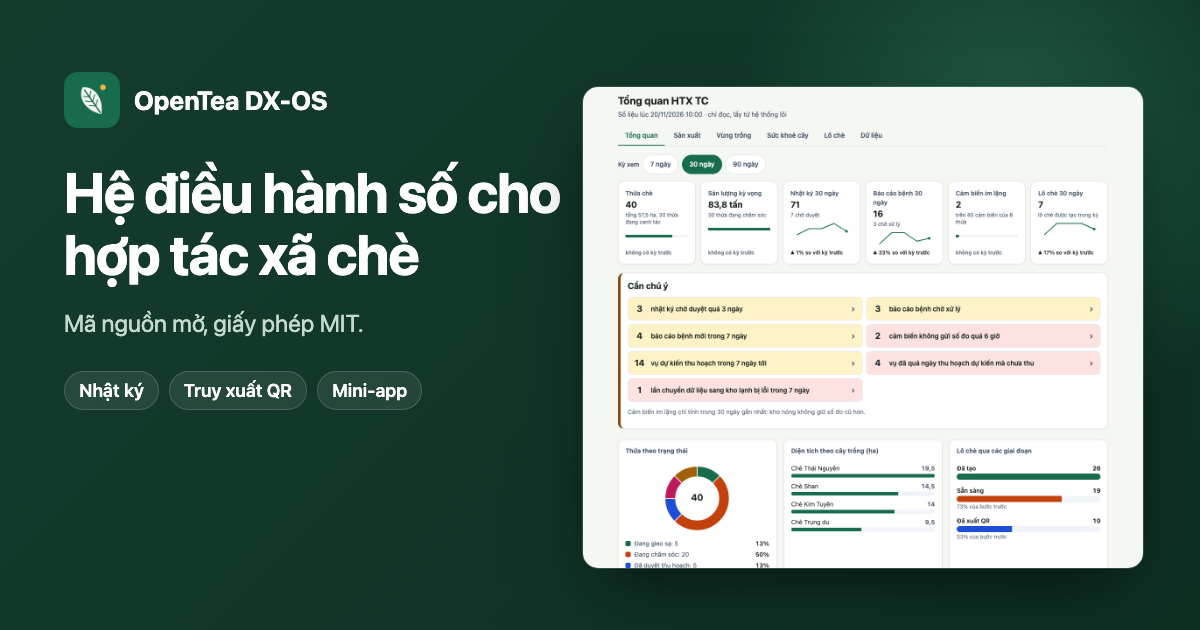
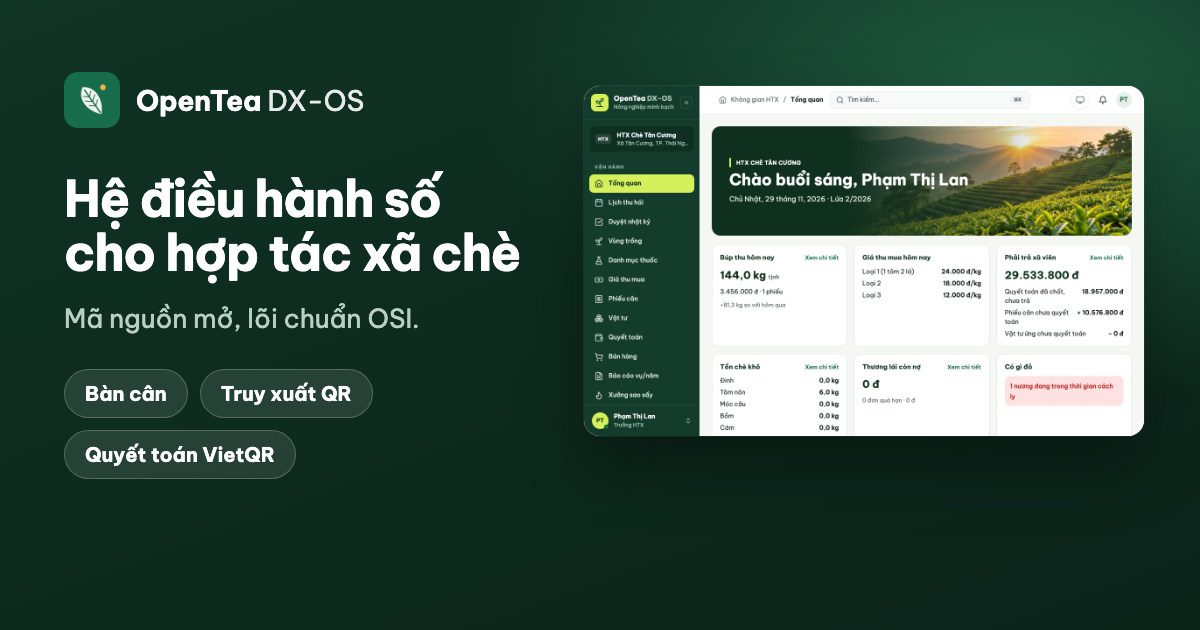
docs(site): social card from the director board; custom-books showcase shows the book designer

diff --git a/site/index.html b/site/index.html
@@ -174,7 +174,7 @@
     <div class="showcase">
       <input class="sc-input" type="radio" name="showcase" id="sc1" checked><input class="sc-input" type="radio" name="showcase" id="sc2"><input class="sc-input" type="radio" name="showcase" id="sc3"><input class="sc-input" type="radio" name="showcase" id="sc4"><input class="sc-input" type="radio" name="showcase" id="sc5"><input class="sc-input" type="radio" name="showcase" id="sc6">
       <div class="sc-tabs" role="group" aria-label="Chọn màn hình"><label class="sc-tab" for="sc1">Bảng điều hành</label><label class="sc-tab" for="sc2">Phiếu quyết toán</label><label class="sc-tab" for="sc3">Truy xuất QR</label><label class="sc-tab" for="sc4">Đặt hàng</label><label class="sc-tab" for="sc5">Sổ tự tạo</label><label class="sc-tab" for="sc6">Khuyến mãi</label></div>
-      <div class="sc-panels"><figure class="sc-panel sc-p1"><div class="shot"><a class="zoom" href="media/director-board.png" data-caption="Bảng điều hành của trưởng HTX: giá thu mua, số tiền phải trả, tồn chè khô và cảnh báo nương đang cách ly. Dữ liệu demo."><img src="media/director-board.png" width="1280" height="800" loading="lazy" alt="Bảng điều hành của trưởng HTX: giá thu mua, số tiền phải trả, tồn chè khô và cảnh báo nương đang cách ly. Dữ liệu demo."></a></div><figcaption>Bảng điều hành của trưởng HTX: giá, phải trả, tồn chè khô, cảnh báo đỏ.</figcaption></figure><figure class="sc-panel sc-p2"><div class="shot"><a class="zoom" href="media/settlement-slip.png" data-caption="Phiếu quyết toán của một hộ: phiếu cân, vật tư ứng, thực lĩnh và mã VietQR, số tài khoản được che. Dữ liệu demo."><img src="media/settlement-slip.png" width="1280" height="800" loading="lazy" alt="Phiếu quyết toán của một hộ: phiếu cân, vật tư ứng, thực lĩnh và mã VietQR, số tài khoản được che. Dữ liệu demo."></a></div><figcaption>Phiếu quyết toán của một hộ: thực lĩnh, mã VietQR, số tài khoản được che.</figcaption></figure><figure class="sc-panel sc-p3"><div class="shot"><a class="zoom" href="media/web-lot-trace.png" data-caption="Trang truy xuất công khai của lô TC-CHE-A3-001: vùng trồng, an toàn cách ly, mẻ sao chế biến. Dữ liệu demo."><img src="media/web-lot-trace.png" width="1280" height="800" loading="lazy" alt="Trang truy xuất công khai của lô TC-CHE-A3-001: vùng trồng, an toàn cách ly, mẻ sao chế biến. Dữ liệu demo."></a></div><figcaption>Trang QR công khai của một lô: vùng trồng, an toàn cách ly, mẻ sao chế biến.</figcaption></figure><figure class="sc-panel sc-p4"><div class="shot"><a class="zoom" href="media/shop-public-order.png" data-caption="Trang đặt hàng công khai của Cửa hàng chè: sản phẩm và số lượng còn lại. Dữ liệu demo."><img src="media/shop-public-order.png" width="1280" height="800" loading="lazy" alt="Trang đặt hàng công khai của Cửa hàng chè: sản phẩm và số lượng còn lại. Dữ liệu demo."></a></div><figcaption>Trang đặt hàng công khai, không cần đăng nhập.</figcaption></figure><figure class="sc-panel sc-p5"><div class="shot"><a class="zoom" href="media/books-in-use.png" data-caption="Sổ chấm công hái chè đang dùng: ghi dòng, lọc và tổng hợp. Dữ liệu demo."><img src="media/books-in-use.png" width="1280" height="800" loading="lazy" alt="Sổ chấm công hái chè đang dùng: ghi dòng, lọc và tổng hợp. Dữ liệu demo."></a></div><figcaption>Sổ đang dùng: ghi dòng, lọc và tổng hợp.</figcaption></figure><figure class="sc-panel sc-p6"><div class="shot"><a class="zoom" href="media/shop-promotions.png" data-caption="Khuyến mãi của Cửa hàng chè: giảm theo phần trăm cho từng sản phẩm, có ngày bắt đầu và ngày kết thúc. Dữ liệu demo."><img src="media/shop-promotions.png" width="1280" height="800" loading="lazy" alt="Khuyến mãi của Cửa hàng chè: giảm theo phần trăm cho từng sản phẩm, có ngày bắt đầu và ngày kết thúc. Dữ liệu demo."></a></div><figcaption>Khuyến mãi theo phần trăm, có ngày bắt đầu và kết thúc.</figcaption></figure></div>
+      <div class="sc-panels"><figure class="sc-panel sc-p1"><div class="shot"><a class="zoom" href="media/director-board.png" data-caption="Bảng điều hành của trưởng HTX: giá thu mua, số tiền phải trả, tồn chè khô và cảnh báo nương đang cách ly. Dữ liệu demo."><img src="media/director-board.png" width="1280" height="800" loading="lazy" alt="Bảng điều hành của trưởng HTX: giá thu mua, số tiền phải trả, tồn chè khô và cảnh báo nương đang cách ly. Dữ liệu demo."></a></div><figcaption>Bảng điều hành của trưởng HTX: giá, phải trả, tồn chè khô, cảnh báo đỏ.</figcaption></figure><figure class="sc-panel sc-p2"><div class="shot"><a class="zoom" href="media/settlement-slip.png" data-caption="Phiếu quyết toán của một hộ: phiếu cân, vật tư ứng, thực lĩnh và mã VietQR, số tài khoản được che. Dữ liệu demo."><img src="media/settlement-slip.png" width="1280" height="800" loading="lazy" alt="Phiếu quyết toán của một hộ: phiếu cân, vật tư ứng, thực lĩnh và mã VietQR, số tài khoản được che. Dữ liệu demo."></a></div><figcaption>Phiếu quyết toán của một hộ: thực lĩnh, mã VietQR, số tài khoản được che.</figcaption></figure><figure class="sc-panel sc-p3"><div class="shot"><a class="zoom" href="media/web-lot-trace.png" data-caption="Trang truy xuất công khai của lô TC-CHE-A3-001: vùng trồng, an toàn cách ly, mẻ sao chế biến. Dữ liệu demo."><img src="media/web-lot-trace.png" width="1280" height="800" loading="lazy" alt="Trang truy xuất công khai của lô TC-CHE-A3-001: vùng trồng, an toàn cách ly, mẻ sao chế biến. Dữ liệu demo."></a></div><figcaption>Trang QR công khai của một lô: vùng trồng, an toàn cách ly, mẻ sao chế biến.</figcaption></figure><figure class="sc-panel sc-p4"><div class="shot"><a class="zoom" href="media/shop-public-order.png" data-caption="Trang đặt hàng công khai của Cửa hàng chè: sản phẩm và số lượng còn lại. Dữ liệu demo."><img src="media/shop-public-order.png" width="1280" height="800" loading="lazy" alt="Trang đặt hàng công khai của Cửa hàng chè: sản phẩm và số lượng còn lại. Dữ liệu demo."></a></div><figcaption>Trang đặt hàng công khai, không cần đăng nhập.</figcaption></figure><figure class="sc-panel sc-p5"><div class="shot"><a class="zoom" href="media/books-designer.png" data-caption="Trình thiết kế sổ của một HTX: tên ô, kiểu dữ liệu, lựa chọn và ai được dùng sổ. Dữ liệu demo."><img src="media/books-designer.png" width="1280" height="800" loading="lazy" alt="Trình thiết kế sổ của một HTX: tên ô, kiểu dữ liệu, lựa chọn và ai được dùng sổ. Dữ liệu demo."></a></div><figcaption>Trưởng HTX tự thiết kế sổ, không cần lập trình.</figcaption></figure><figure class="sc-panel sc-p6"><div class="shot"><a class="zoom" href="media/shop-promotions.png" data-caption="Khuyến mãi của Cửa hàng chè: giảm theo phần trăm cho từng sản phẩm, có ngày bắt đầu và ngày kết thúc. Dữ liệu demo."><img src="media/shop-promotions.png" width="1280" height="800" loading="lazy" alt="Khuyến mãi của Cửa hàng chè: giảm theo phần trăm cho từng sản phẩm, có ngày bắt đầu và ngày kết thúc. Dữ liệu demo."></a></div><figcaption>Khuyến mãi theo phần trăm, có ngày bắt đầu và kết thúc.</figcaption></figure></div>
     </div>
   </div>
 </section>

diff --git a/site/en/index.html b/site/en/index.html
@@ -174,7 +174,7 @@
     <div class="showcase">
       <input class="sc-input" type="radio" name="showcase" id="sc1" checked><input class="sc-input" type="radio" name="showcase" id="sc2"><input class="sc-input" type="radio" name="showcase" id="sc3"><input class="sc-input" type="radio" name="showcase" id="sc4"><input class="sc-input" type="radio" name="showcase" id="sc5"><input class="sc-input" type="radio" name="showcase" id="sc6">
       <div class="sc-tabs" role="group" aria-label="Choose a screen"><label class="sc-tab" for="sc1">Board</label><label class="sc-tab" for="sc2">Settlement slip</label><label class="sc-tab" for="sc3">QR trace</label><label class="sc-tab" for="sc4">Public order</label><label class="sc-tab" for="sc5">Custom book</label><label class="sc-tab" for="sc6">Promotions</label></div>
-      <div class="sc-panels"><figure class="sc-panel sc-p1"><div class="shot"><a class="zoom" href="../media/director-board.png" data-caption="The cooperative head's board: leaf prices, amounts payable, dry stock and a red alert for a parcel in withdrawal. Demo data."><img src="../media/director-board.png" width="1280" height="800" loading="lazy" alt="The cooperative head's board: leaf prices, amounts payable, dry stock and a red alert for a parcel in withdrawal. Demo data."></a></div><figcaption>Head's board: prices, payable, dry stock, red alerts.</figcaption></figure><figure class="sc-panel sc-p2"><div class="shot"><a class="zoom" href="../media/settlement-slip.png" data-caption="A household's settlement slip: weighing tickets, advances, net payout and a VietQR code with the account number masked. Demo data."><img src="../media/settlement-slip.png" width="1280" height="800" loading="lazy" alt="A household's settlement slip: weighing tickets, advances, net payout and a VietQR code with the account number masked. Demo data."></a></div><figcaption>Settlement slip: net payout, VietQR code, masked account.</figcaption></figure><figure class="sc-panel sc-p3"><div class="shot"><a class="zoom" href="../media/web-lot-trace.png" data-caption="The public QR page of lot TC-CHE-A3-001: origin, withdrawal safety, processing batch. Demo data."><img src="../media/web-lot-trace.png" width="1280" height="800" loading="lazy" alt="The public QR page of lot TC-CHE-A3-001: origin, withdrawal safety, processing batch. Demo data."></a></div><figcaption>Public QR page of a lot: origin, withdrawal safety, processing batch.</figcaption></figure><figure class="sc-panel sc-p4"><div class="shot"><a class="zoom" href="../media/shop-public-order.png" data-caption="The public order page of the tea shop: products and remaining stock. Demo data."><img src="../media/shop-public-order.png" width="1280" height="800" loading="lazy" alt="The public order page of the tea shop: products and remaining stock. Demo data."></a></div><figcaption>Public order page, no sign-in needed.</figcaption></figure><figure class="sc-panel sc-p5"><div class="shot"><a class="zoom" href="../media/books-in-use.png" data-caption="The tea-picking attendance book in use: entries, filters and totals. Demo data."><img src="../media/books-in-use.png" width="1280" height="800" loading="lazy" alt="The tea-picking attendance book in use: entries, filters and totals. Demo data."></a></div><figcaption>Book in use: entries, filters and totals.</figcaption></figure><figure class="sc-panel sc-p6"><div class="shot"><a class="zoom" href="../media/shop-promotions.png" data-caption="Promotions in the tea shop: percentage discounts per product, with start and end dates. Demo data."><img src="../media/shop-promotions.png" width="1280" height="800" loading="lazy" alt="Promotions in the tea shop: percentage discounts per product, with start and end dates. Demo data."></a></div><figcaption>Promotions: percentage discounts with start and end dates.</figcaption></figure></div>
+      <div class="sc-panels"><figure class="sc-panel sc-p1"><div class="shot"><a class="zoom" href="../media/director-board.png" data-caption="The cooperative head's board: leaf prices, amounts payable, dry stock and a red alert for a parcel in withdrawal. Demo data."><img src="../media/director-board.png" width="1280" height="800" loading="lazy" alt="The cooperative head's board: leaf prices, amounts payable, dry stock and a red alert for a parcel in withdrawal. Demo data."></a></div><figcaption>Head's board: prices, payable, dry stock, red alerts.</figcaption></figure><figure class="sc-panel sc-p2"><div class="shot"><a class="zoom" href="../media/settlement-slip.png" data-caption="A household's settlement slip: weighing tickets, advances, net payout and a VietQR code with the account number masked. Demo data."><img src="../media/settlement-slip.png" width="1280" height="800" loading="lazy" alt="A household's settlement slip: weighing tickets, advances, net payout and a VietQR code with the account number masked. Demo data."></a></div><figcaption>Settlement slip: net payout, VietQR code, masked account.</figcaption></figure><figure class="sc-panel sc-p3"><div class="shot"><a class="zoom" href="../media/web-lot-trace.png" data-caption="The public QR page of lot TC-CHE-A3-001: origin, withdrawal safety, processing batch. Demo data."><img src="../media/web-lot-trace.png" width="1280" height="800" loading="lazy" alt="The public QR page of lot TC-CHE-A3-001: origin, withdrawal safety, processing batch. Demo data."></a></div><figcaption>Public QR page of a lot: origin, withdrawal safety, processing batch.</figcaption></figure><figure class="sc-panel sc-p4"><div class="shot"><a class="zoom" href="../media/shop-public-order.png" data-caption="The public order page of the tea shop: products and remaining stock. Demo data."><img src="../media/shop-public-order.png" width="1280" height="800" loading="lazy" alt="The public order page of the tea shop: products and remaining stock. Demo data."></a></div><figcaption>Public order page, no sign-in needed.</figcaption></figure><figure class="sc-panel sc-p5"><div class="shot"><a class="zoom" href="../media/books-designer.png" data-caption="The book designer: field names, types, choices and who may use the book. Demo data."><img src="../media/books-designer.png" width="1280" height="800" loading="lazy" alt="The book designer: field names, types, choices and who may use the book. Demo data."></a></div><figcaption>The cooperative head designs the book without code.</figcaption></figure><figure class="sc-panel sc-p6"><div class="shot"><a class="zoom" href="../media/shop-promotions.png" data-caption="Promotions in the tea shop: percentage discounts per product, with start and end dates. Demo data."><img src="../media/shop-promotions.png" width="1280" height="800" loading="lazy" alt="Promotions in the tea shop: percentage discounts per product, with start and end dates. Demo data."></a></div><figcaption>Promotions: percentage discounts with start and end dates.</figcaption></figure></div>
     </div>
   </div>
 </section>
